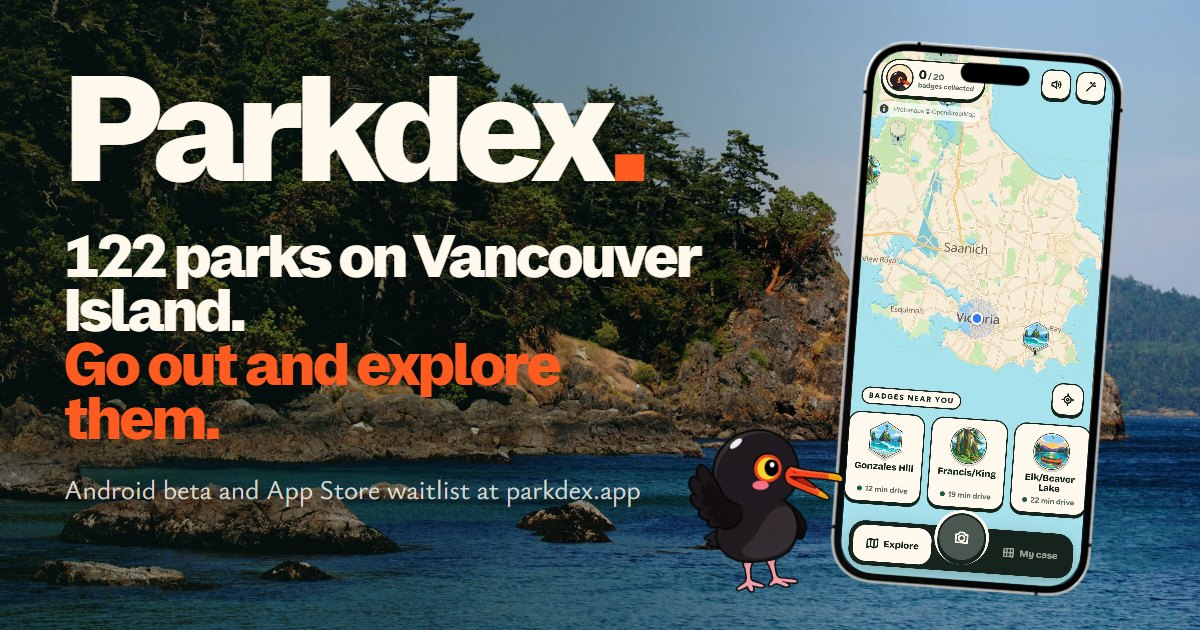
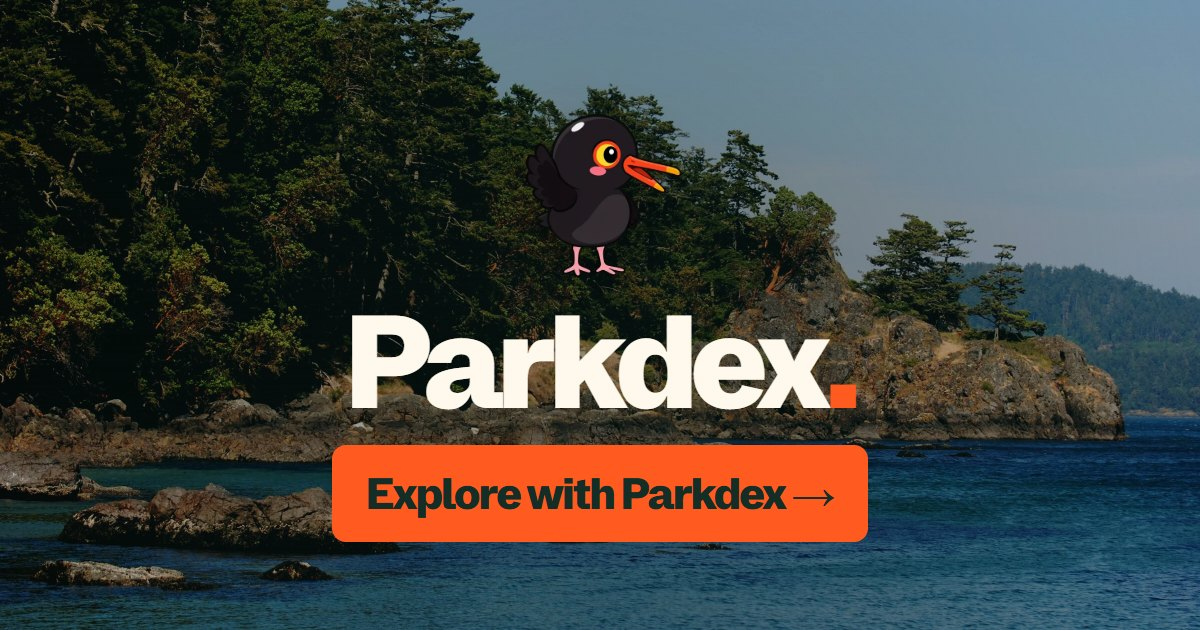
Simplify the share card around an Explore with Parkdex CTA
The Open Graph image keeps only Kip, the wordmark and a large Explore
with Parkdex button, centered so it reads at phone size and survives
square crops. Share descriptions are shorter, and meta content uses a
typographic apostrophe after a debugger truncated the description at
a straight one.

Refs #19

diff --git a/social/og-card.html b/social/og-card.html
@@ -4,12 +4,20 @@
     <meta charset="UTF-8" />
     <meta name="robots" content="noindex" />
     <title>Parkdex share card source</title>
-    <!-- Source for public/og-image.png. Render it at 1200x630; see social/README.md. -->
+    <!-- Source for public/og-image.jpg. Render it at 1200x630; see social/README.md. -->
     <script type="module">import '../src/shared-base.css';</script>
     <style>
       html, body { margin: 0; }
+      /* Few, large elements kept near the center so previews stay legible at phone size
+         and survive the square crops some apps apply. */
       .card {
         position: relative;
+        display: flex;
+        flex-direction: column;
+        align-items: center;
+        justify-content: center;
+        gap: 18px;
+        text-align: center;
         width: 1200px;
         height: 630px;
         overflow: hidden;
@@ -27,60 +35,36 @@
       .scrim {
         position: absolute;
         inset: 0;
-        background: linear-gradient(100deg, var(--color-shade-48) 0%, var(--color-shade-38) 45%, var(--color-hero-scrim-soft) 75%);
+        background: radial-gradient(circle at 50% 50%, var(--color-shade-48) 0%, var(--color-shade-38) 55%, var(--color-shade-28) 100%);
       }
-      .copy {
-        position: absolute;
-        left: 64px;
-        top: 70px;
-        width: 640px;
+      .kip {
+        position: relative;
+        width: 210px;
+        margin-bottom: -6px;
+        height: auto;
+        filter: drop-shadow(0 18px 24px rgb(0 0 0 / 35%));
       }
+      .copy { position: relative; }
       .wordmark {
         margin: 0;
         font-family: var(--font-display), sans-serif;
-        font-size: 150px;
+        font-size: 132px;
         font-weight: 780;
-        line-height: .78;
+        line-height: .8;
         letter-spacing: -.045em;
       }
       .wordmark span { color: var(--color-accent); }
-      .headline {
-        margin: 42px 0 0;
+      .cta {
+        display: inline-block;
+        margin: 30px 0 0;
+        padding: 20px 34px;
+        border-radius: 14px;
+        background: var(--color-accent);
+        color: var(--color-ink);
         font-family: var(--font-display), sans-serif;
-        font-size: 60px;
+        font-size: 44px;
         font-weight: 780;
-        line-height: .9;
-        letter-spacing: -.035em;
-      }
-      .headline span { display: block; color: var(--color-accent); }
-      .lede {
-        margin: 26px 0 0;
-        font-family: var(--font-body), sans-serif;
-        font-size: 27px;
-        color: var(--color-hero-soft);
-      }
-      .phone {
-        position: absolute;
-        right: 92px;
-        top: 46px;
-        width: 262px;
-        transform: rotate(4deg);
-      }
-      .phone .screen {
-        position: absolute;
-        inset: 1.9% 4.3% 1.9% 4.3%;
-        overflow: hidden;
-        border-radius: 34px;
-        background: var(--color-device-bezel);
-      }
-      .phone .screen img { width: 100%; height: 100%; object-fit: cover; object-position: top; }
-      .phone .frame { position: relative; display: block; width: 100%; }
-      .kip {
-        position: absolute;
-        right: 330px;
-        bottom: 18px;
-        width: 210px;
-        transform: rotate(-6deg);
+        letter-spacing: -.03em;
       }
     </style>
   </head>
@@ -88,16 +72,11 @@
     <div class="card">
       <img class="photo" src="/images/island-hero.webp" alt="" />
       <div class="scrim"></div>
+      <img class="kip" src="/images/kip/kip-wave.webp" alt="" />
       <div class="copy">
         <p class="wordmark">Parkdex<span>.</span></p>
-        <p class="headline">122 parks on Vancouver Island. <span>Go out and explore them.</span></p>
-        <p class="lede">Android beta and App Store waitlist at parkdex.app</p>
+        <p class="cta">Explore with Parkdex <span aria-hidden="true">→</span></p>
       </div>
-      <div class="phone">
-        <div class="screen"><img src="/images/field-map.webp" alt="" /></div>
-        <img class="frame" src="/frames/parkdex-phone-frame.webp" alt="" />
-      </div>
-      <img class="kip" src="/images/kip/kip-wave.webp" alt="" />
     </div>
   </body>
 </html>

diff --git a/index.html b/index.html
@@ -4,24 +4,24 @@
     <meta charset="UTF-8" />
     <meta name="viewport" content="width=device-width, initial-scale=1.0, viewport-fit=cover" />
     <meta name="theme-color" content="#142d27" />
-    <meta name="description" content="Pick a Vancouver Island park, go there, and claim its badge when you're inside the boundary. Join the Android beta or the App Store waitlist." />
+    <meta name="description" content="Pick a Vancouver Island park, go there, and claim its badge when you’re inside the boundary. Join the Android beta or the App Store waitlist." />
     <link rel="canonical" href="https://parkdex.app/" />
     <meta property="og:site_name" content="Parkdex" />
     <meta property="og:type" content="website" />
     <meta property="og:locale" content="en_CA" />
     <meta property="og:url" content="https://parkdex.app/" />
     <meta property="og:title" content="Parkdex · Park badges for Vancouver Island" />
-    <meta property="og:description" content="There are 122 parks on Vancouver Island. Go out and explore them, and collect the badges as you go." />
+    <meta property="og:description" content="122 parks on Vancouver Island. Explore them with Parkdex." />
     <meta property="og:image" content="https://parkdex.app/og-image.jpg" />
     <meta property="og:image:type" content="image/jpeg" />
     <meta property="og:image:width" content="1200" />
     <meta property="og:image:height" content="630" />
-    <meta property="og:image:alt" content="Parkdex wordmark over the East Sooke coastline beside the app map and Kip the oystercatcher" />
+    <meta property="og:image:alt" content="Kip the oystercatcher above the Parkdex wordmark and an Explore with Parkdex button, over the East Sooke coastline" />
     <meta name="twitter:card" content="summary_large_image" />
     <meta name="twitter:title" content="Parkdex · Park badges for Vancouver Island" />
-    <meta name="twitter:description" content="There are 122 parks on Vancouver Island. Go out and explore them, and collect the badges as you go." />
+    <meta name="twitter:description" content="122 parks on Vancouver Island. Explore them with Parkdex." />
     <meta name="twitter:image" content="https://parkdex.app/og-image.jpg" />
-    <meta name="twitter:image:alt" content="Parkdex wordmark over the East Sooke coastline beside the app map and Kip the oystercatcher" />
+    <meta name="twitter:image:alt" content="Kip the oystercatcher above the Parkdex wordmark and an Explore with Parkdex button, over the East Sooke coastline" />
     <script type="application/ld+json">
       {
         "@context": "https://schema.org",
@@ -39,7 +39,7 @@
             "name": "Parkdex",
             "operatingSystem": "Android",
             "applicationCategory": "TravelApplication",
-            "description": "Pick a Vancouver Island park, go there, and claim its badge when you're inside the boundary. Join the Android beta or the App Store waitlist.",
+            "description": "Pick a Vancouver Island park, go there, and claim its badge when you’re inside the boundary. Join the Android beta or the App Store waitlist.",
             "image": "https://parkdex.app/og-image.jpg",
             "url": "https://parkdex.app/",
             "author": { "@type": "Person", "name": "Nathan Pannell", "url": "https://www.nathanpannell.com/" }

diff --git a/delete-account/index.html b/delete-account/index.html
@@ -15,7 +15,7 @@
     <meta property="og:image" content="https://parkdex.app/og-image.jpg" />
     <meta property="og:image:width" content="1200" />
     <meta property="og:image:height" content="630" />
-    <meta property="og:image:alt" content="Parkdex wordmark over the East Sooke coastline beside the app map and Kip the oystercatcher" />
+    <meta property="og:image:alt" content="Kip the oystercatcher above the Parkdex wordmark and an Explore with Parkdex button, over the East Sooke coastline" />
     <meta name="twitter:card" content="summary_large_image" />
     <meta name="twitter:image" content="https://parkdex.app/og-image.jpg" />
     <link rel="icon" href="/favicon.ico" sizes="16x16 24x24 32x32 48x48 64x64" />

diff --git a/support/index.html b/support/index.html
@@ -15,7 +15,7 @@
     <meta property="og:image" content="https://parkdex.app/og-image.jpg" />
     <meta property="og:image:width" content="1200" />
     <meta property="og:image:height" content="630" />
-    <meta property="og:image:alt" content="Parkdex wordmark over the East Sooke coastline beside the app map and Kip the oystercatcher" />
+    <meta property="og:image:alt" content="Kip the oystercatcher above the Parkdex wordmark and an Explore with Parkdex button, over the East Sooke coastline" />
     <meta name="twitter:card" content="summary_large_image" />
     <meta name="twitter:image" content="https://parkdex.app/og-image.jpg" />
     <link rel="icon" href="/favicon.ico" sizes="16x16 24x24 32x32 48x48 64x64" />

diff --git a/privacy/index.html b/privacy/index.html
@@ -14,7 +14,7 @@
     <meta property="og:image" content="https://parkdex.app/og-image.jpg" />
     <meta property="og:image:width" content="1200" />
     <meta property="og:image:height" content="630" />
-    <meta property="og:image:alt" content="Parkdex wordmark over the East Sooke coastline beside the app map and Kip the oystercatcher" />
+    <meta property="og:image:alt" content="Kip the oystercatcher above the Parkdex wordmark and an Explore with Parkdex button, over the East Sooke coastline" />
     <meta name="twitter:card" content="summary_large_image" />
     <meta name="twitter:image" content="https://parkdex.app/og-image.jpg" />
     <meta name="theme-color" content="#142d27" />

diff --git a/tests/social-meta.test.ts b/tests/social-meta.test.ts
@@ -58,3 +58,12 @@ test("policy pages carry canonical and share tags for their own URL", async () =
     assert.match(html, /<meta name="twitter:card" content="summary_large_image" \/>/, path);
   }
 });
+
+test("meta content uses typographic apostrophes so naive scrapers do not truncate it", async () => {
+  for (const path of ["../index.html", "../privacy/index.html", "../support/index.html", "../delete-account/index.html"]) {
+    const html = await readFile(new URL(path, import.meta.url), "utf8");
+    for (const [, content] of html.matchAll(/<meta [^>]*content="([^"]*)"/g)) {
+      assert.doesNotMatch(content, /'/, `${path}: ${content}`);
+    }
+  }
+});

diff --git a/social/README.md b/social/README.md
@@ -2,6 +2,6 @@
 
 `og-card.html` is the source for `public/og-image.jpg`, the 1200x630 image used by Open Graph and Twitter cards. It is not part of the build.
 
-To update it, run `npm run dev -- --port 4327`, open `http://127.0.0.1:4327/social/og-card.html`, and screenshot the `.card` element at 1200x630 with device scale 1. Save it as a progressive JPEG under 300 KB at `public/og-image.jpg`. Keep the headline consistent with the hero: do not claim that every park has a badge.
+To update it, run `npm run dev -- --port 4327`, open `http://127.0.0.1:4327/social/og-card.html`, and screenshot the `.card` element at 1200x630 with device scale 1. Save it as a progressive JPEG under 300 KB at `public/og-image.jpg`. Keep it to Kip, the wordmark and the "Explore with Parkdex" call to action, stacked in the center so it stays legible at phone size and survives square thumbnail crops. Check a 300px-wide copy and a center square crop before committing.
 
 After a production release, check the card with the Facebook Sharing Debugger and a LinkedIn Post Inspector preview so they refresh their caches.
